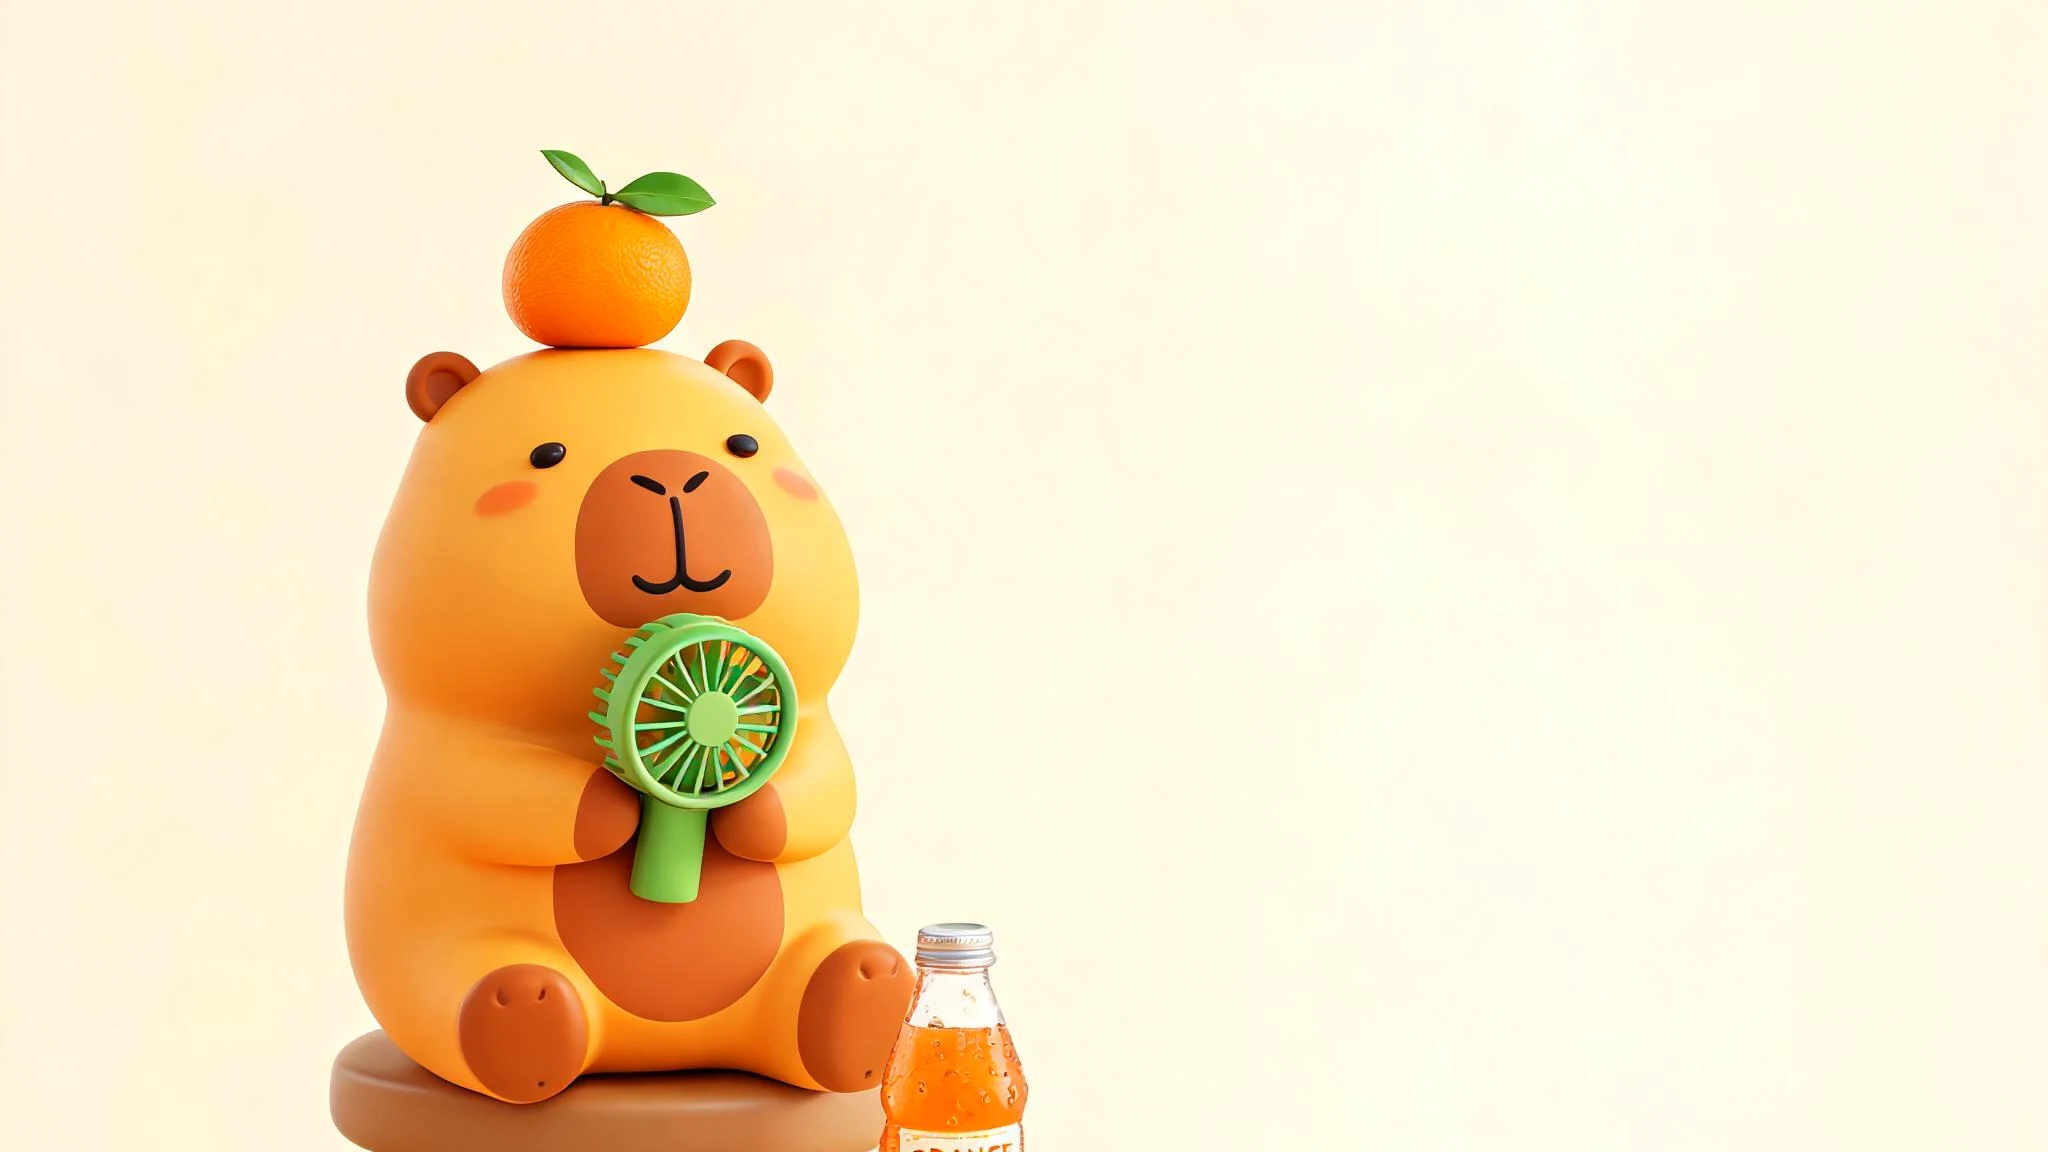
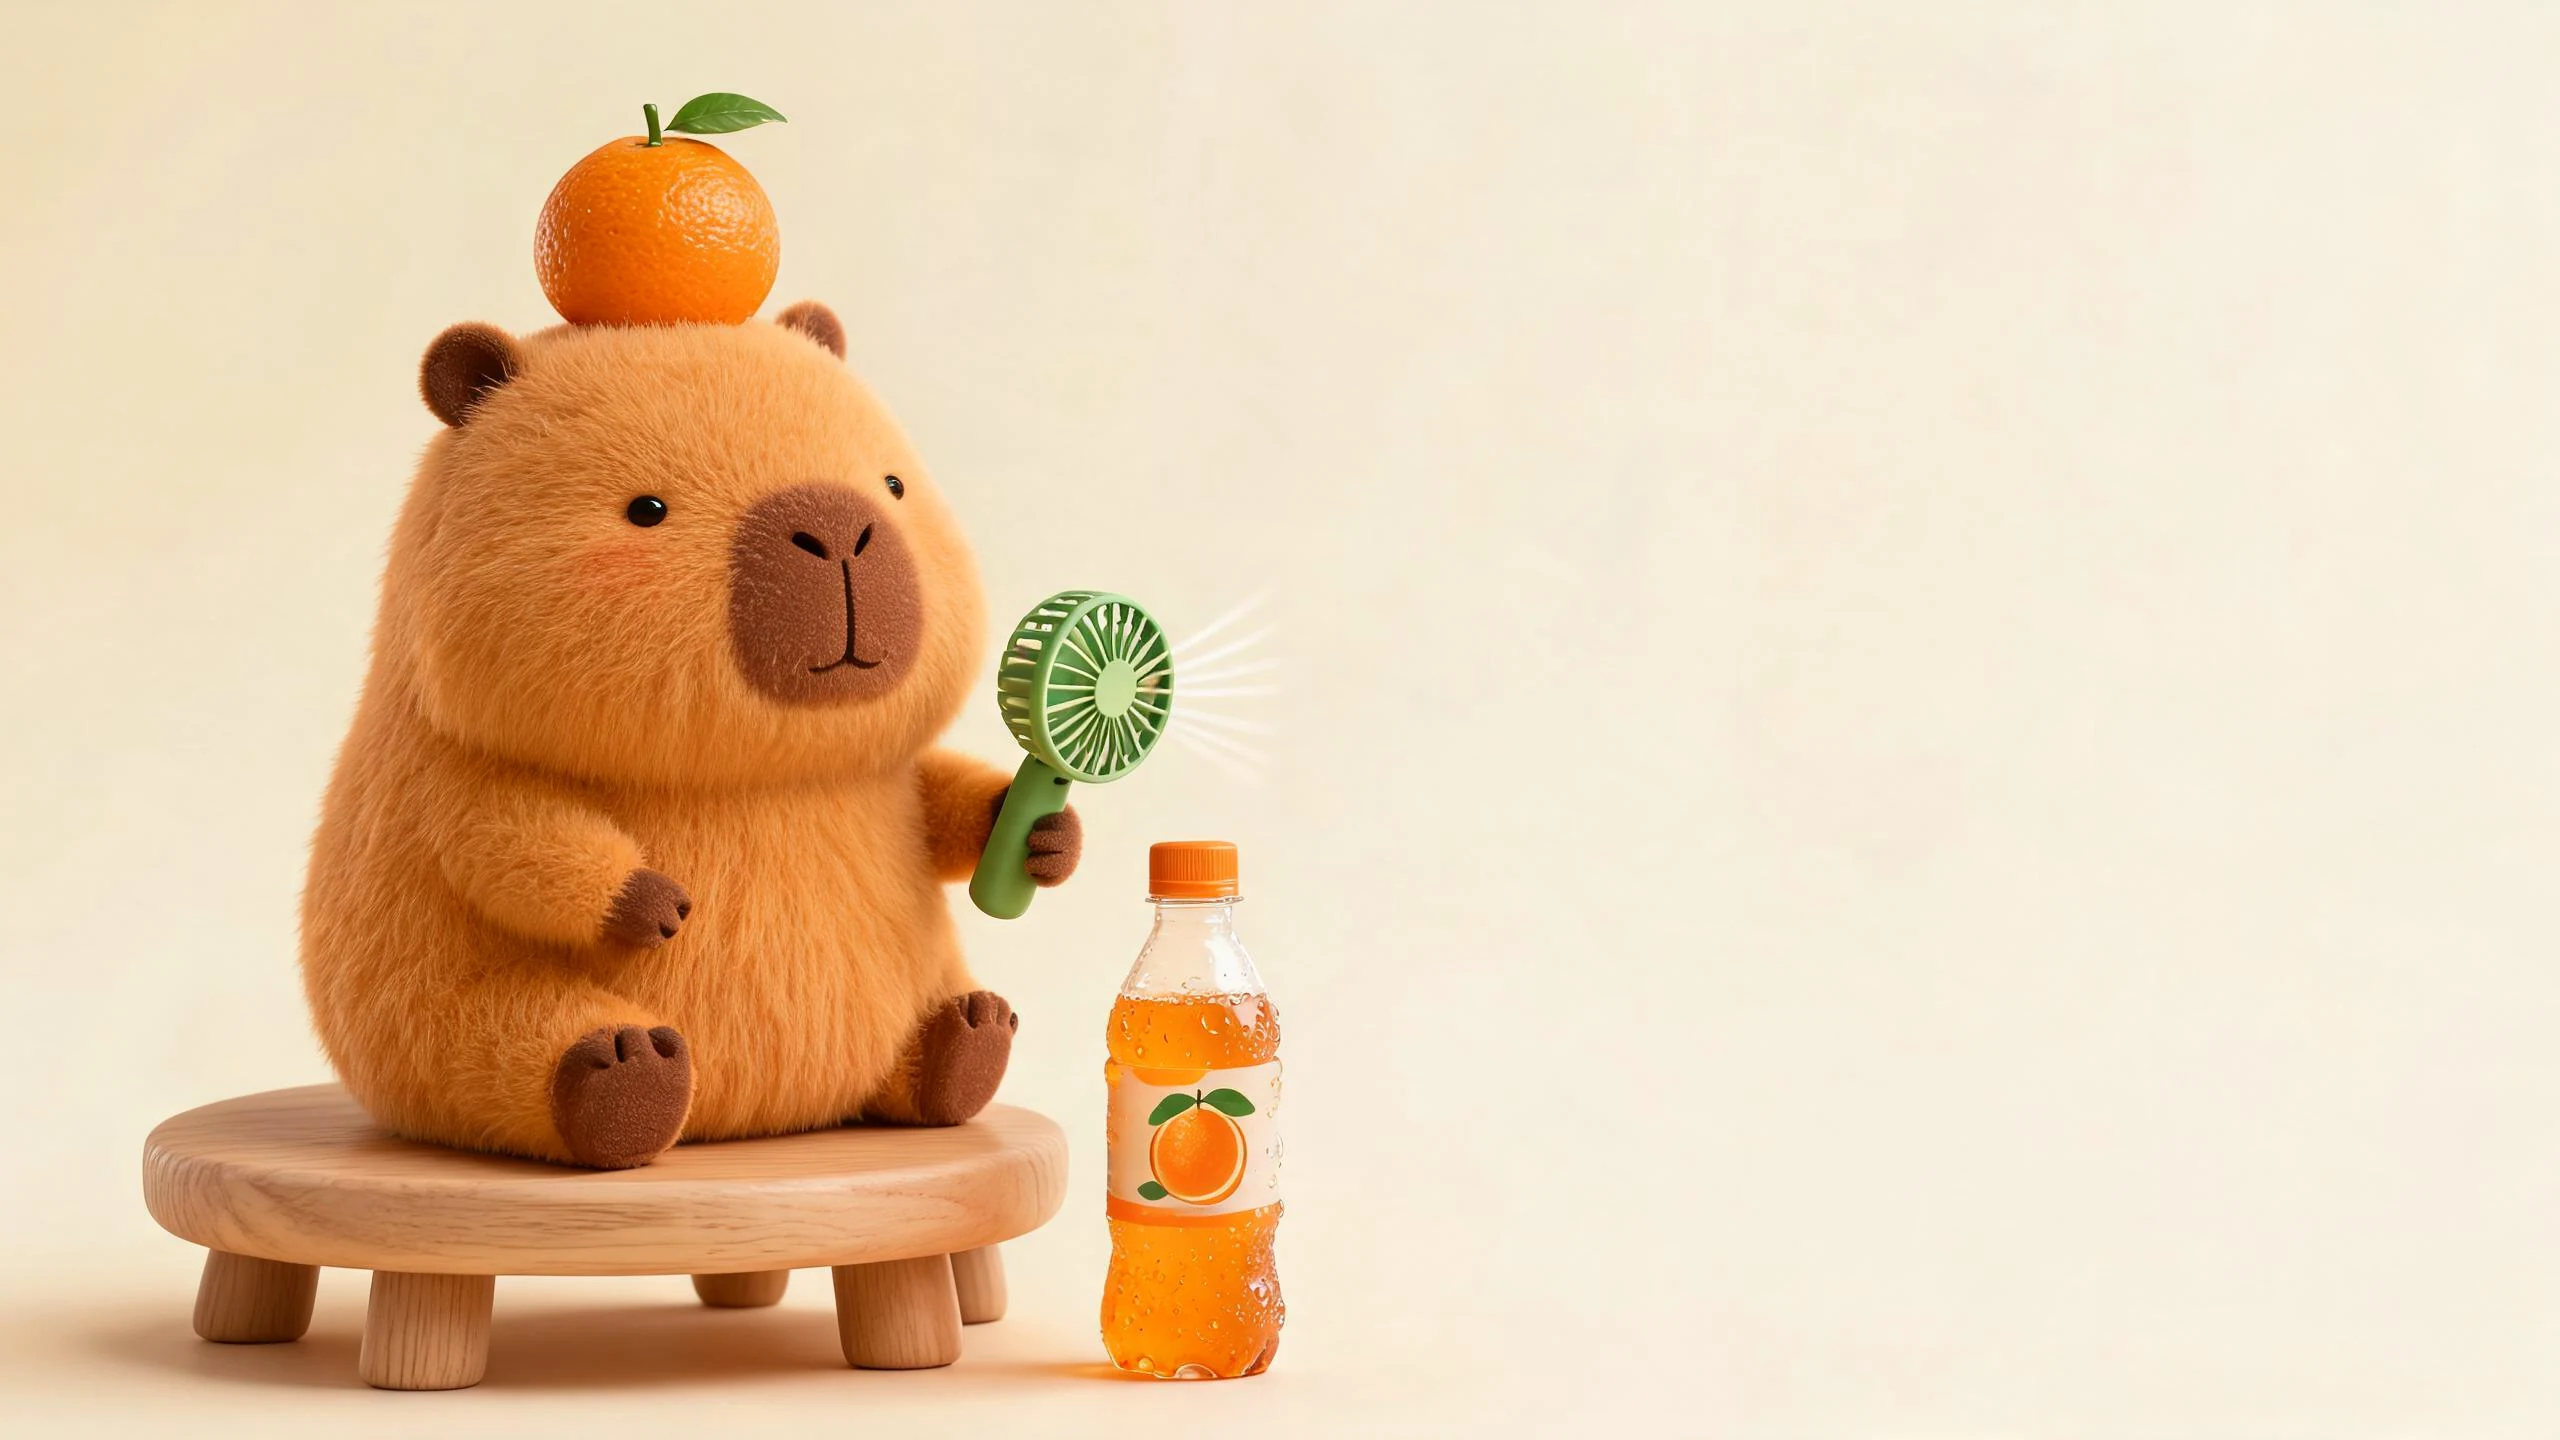
feat: img2img gallery art — reference-based Doubao Seedream 5.0 generations replace gallery images; add gen_i2i.py tooling

diff --git a/scripts/gen_i2i.py b/scripts/gen_i2i.py
@@ -1,0 +1,109 @@
+#!/usr/bin/env python
+"""BlueAI Doubao Seedream 5.0 图生图（image2image）。
+
+用法:
+  uv run --with requests python scripts/gen_i2i.py \
+    --prompt "..." --refs URL1 URL2 [--size 2K] [--out name] [--aspect-ratio ...]
+
+密钥从 BLUEAI_MIDDLEWARE_KEY 环境变量或
+/Users/mac/Company/blueFoucs/BlueAI_Skills_Hub/.env 读取。
+"""
+from __future__ import annotations
+
+import argparse
+import json
+import os
+import sys
+import time
+import urllib.request
+from pathlib import Path
+
+import requests
+
+BASE = "https://bmc-model-openapi.bluemediagroup.cn/api"
+DEFAULT_KEY_FILE = Path.home() / "Company" / "blueFoucs" / "BlueAI_Skills_Hub" / ".env"
+
+
+def load_key() -> str:
+    key = os.environ.get("BLUEAI_MIDDLEWARE_KEY")
+    if key:
+        return key
+    if DEFAULT_KEY_FILE.exists():
+        for line in DEFAULT_KEY_FILE.read_text().splitlines():
+            if line.startswith("BLUEAI_MIDDLEWARE_KEY="):
+                return line.split("=", 1)[1].strip()
+    print("no BLUEAI_MIDDLEWARE_KEY found", file=sys.stderr)
+    raise SystemExit(1)
+
+
+def main() -> int:
+    ap = argparse.ArgumentParser()
+    ap.add_argument("--prompt", required=True)
+    ap.add_argument("--refs", nargs="+", required=True)
+    ap.add_argument("--model", default="doubao-seedream-5-0-260128")
+    ap.add_argument("--size", default="2K")
+    ap.add_argument("--out", default="lulu-i2i")
+    args = ap.parse_args()
+
+    key = load_key()
+    headers = {"Authorization": f"Bearer {key}", "Content-Type": "application/json"}
+
+    body = {
+        "model_id": args.model,
+        "prompt": args.prompt,
+        "image_urls": args.refs,
+        "size": args.size,
+        "watermark": False,
+        "output_format": "jpeg",
+        "sequential_image_generation": "disabled",
+    }
+    r = requests.post(f"{BASE}/doubao/image2image_v5_0", json=body, headers=headers, timeout=60)
+    r.raise_for_status()
+    created = r.json()
+    task_id = created.get("task_id") or created.get("id")
+    if not task_id:
+        print("no task_id in response:", created, file=sys.stderr)
+        return 1
+    print(f"task_id={task_id}")
+
+    for attempt in range(40):
+        time.sleep(8)
+        st = requests.post(f"{BASE}/doubao/task_status", json={"task_id": task_id}, headers=headers, timeout=60)
+        st.raise_for_status()
+        data = st.json()
+        status = data.get("status")
+        print(f"poll {attempt + 1}: {status}")
+        if status == "succeeded":
+            urls = (
+                data.get("image_urls")
+                or data.get("images")
+                or [data.get("image_url")]
+            )
+            # doubao 网关信封：图片结果落在 video_url / result
+            if not urls and data.get("video_url"):
+                urls = [data["video_url"]]
+            if not urls and isinstance(data.get("result"), dict):
+                urls = data["result"].get("image_urls") or [data["result"].get("image_url")]
+            if not urls and isinstance(data.get("result"), list):
+                urls = [item.get("image_url") for item in data["result"] if item.get("image_url")]
+            urls = [u for u in urls if u]
+            print("RESULT_JSON=" + json.dumps(data, ensure_ascii=False)[:4000])
+            if not urls:
+                print("succeeded but no image urls found; full response saved", file=sys.stderr)
+                Path(f"/tmp/{args.out}-result.json").write_text(json.dumps(data, ensure_ascii=False, indent=2))
+                return 2
+            for i, u in enumerate(urls):
+                name = f"{args.out}.jpg" if len(urls) == 1 else f"{args.out}-{i + 1}.jpg"
+                target = Path(__file__).resolve().parents[1] / "assets" / "hd" / name
+                urllib.request.urlretrieve(u, target)
+                print(f"saved {target} ({target.stat().st_size // 1024} KiB) from {u[:120]}")
+            return 0
+        if status == "failed":
+            print("task failed:", json.dumps(data, ensure_ascii=False)[:2000], file=sys.stderr)
+            return 3
+    print("timeout polling task", file=sys.stderr)
+    return 4
+
+
+if __name__ == "__main__":
+    raise SystemExit(main())
